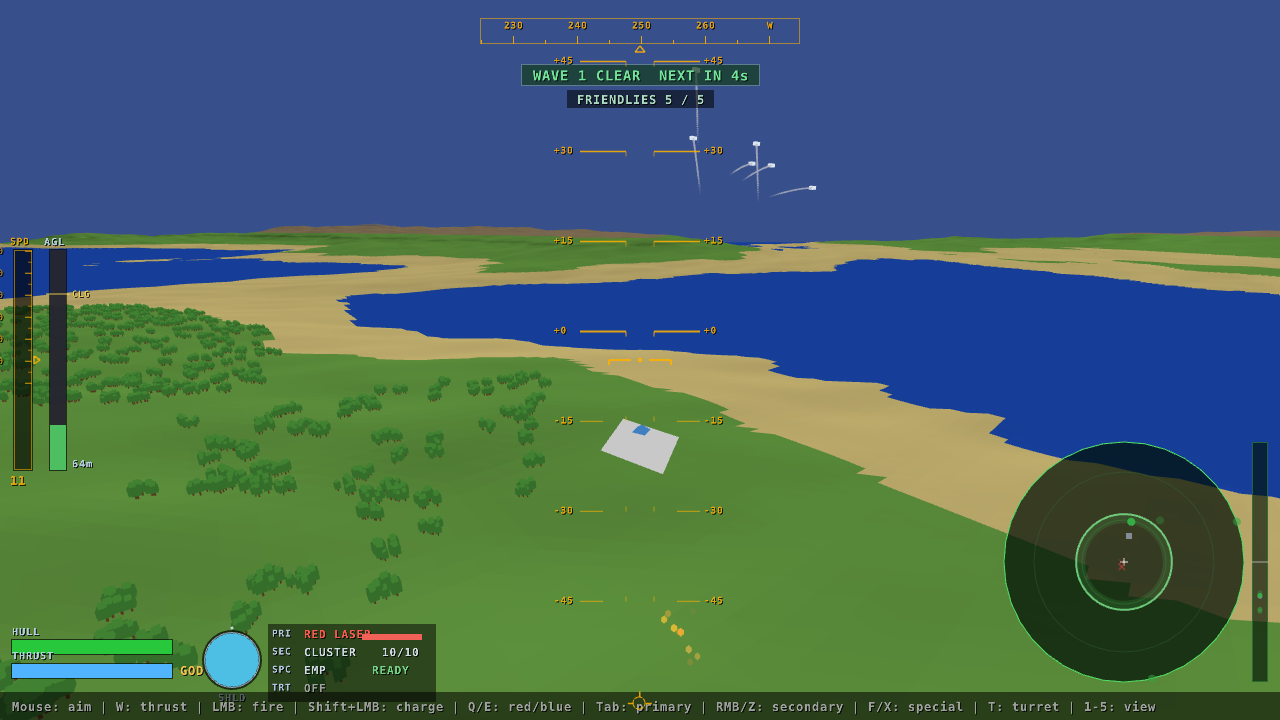
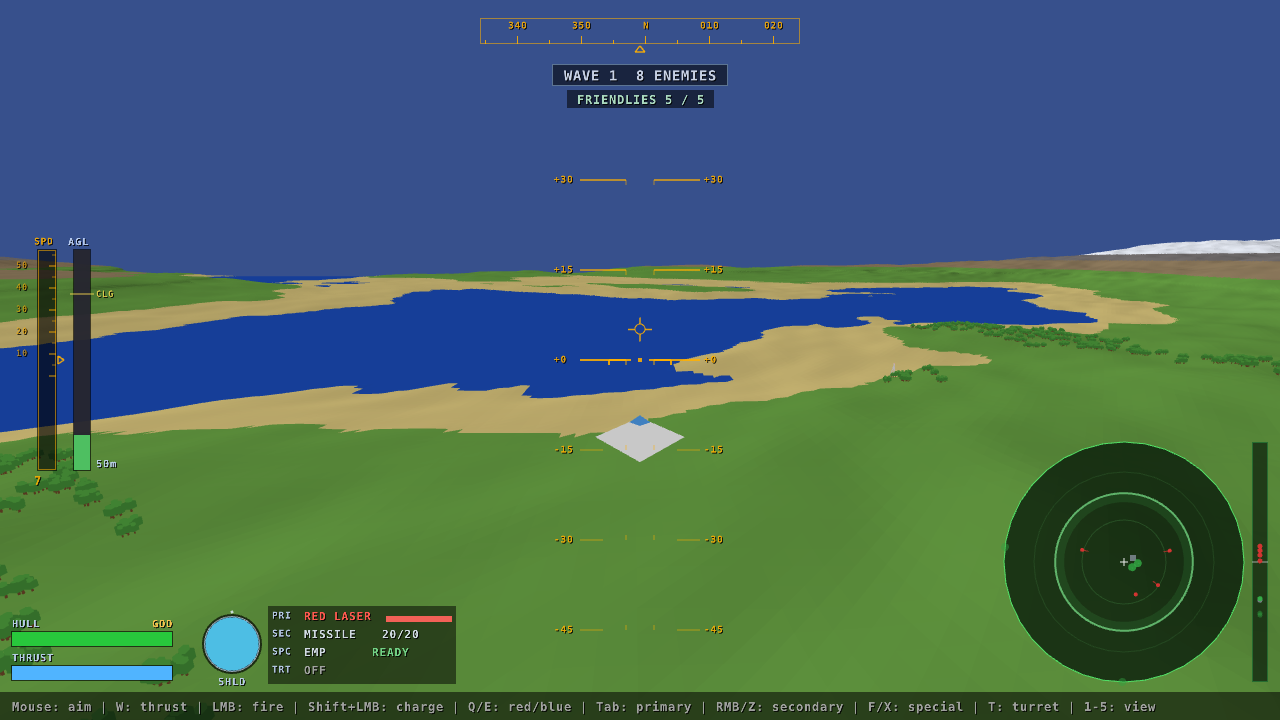
docs: refresh README screenshots with the cleaned-up HUD
Retaken from the release build after the HUD overlap fixes
(BUG-021..BUG-024): Classic-view missile engagement as the hero
image, lake with the pulse radar mid-sweep, and forest plains running
to snow-capped ridges.

diff --git a/README.md b/README.md
@@ -7,12 +7,12 @@
 
 terra-siege is a modern C++17 / raylib reimagining of **Virus** (Argonaut Software / Firebird, 1988), the game that put a real-time filled-polygon landscape on home computers. You defend a planet against alien invaders from the cockpit of a hovercraft, flying with the original's Newtonian "tilt and burn" physics over a seamless, wrap-around world of flat-shaded hills, lakes and forests. The low-poly look is preserved deliberately, and the original is extended with directional shields, a typed red/blue laser pair, homing missiles, ship infection, an old-style pulse radar, and an asymmetric Base Defence mode against grounded alien Landers. It ships with `terra-siege-inspect`, a purpose-built editor for the game's OBJ meshes and their JSON gameplay profiles.
 
-![Dogfight over the forest: cluster missiles trailing smoke, a kill fireball, and the lake beyond](docs/screenshots/combat.png)
+![Classic view: homing missiles curve in on smoke trails as drones swarm the hovercraft over forest and coastline](docs/screenshots/combat.png)
 
 | | |
 | --- | --- |
-| ![Forested coastline with homing missiles inbound; the pulse radar ring is mid-sweep, bottom right](docs/screenshots/coastline-radar.png) | ![Lake, beaches and snow-capped mountains on the wrap-around world, with friendly units and a missile arc](docs/screenshots/lake-vista.png) |
-| Forest coastline with the pulse radar mid-sweep | Lakes, beaches and snow-capped ridges |
+| ![Chase view over a lake and beaches; the pulse radar ring is mid-sweep, bottom right](docs/screenshots/coastline-radar.png) | ![Forest plains running to snow-capped ridges on the wrap-around world](docs/screenshots/lake-vista.png) |
+| Lakes and beaches, with the pulse radar mid-sweep | Forest plains and snow-capped ridges |
 
 ## Quick Start
 
